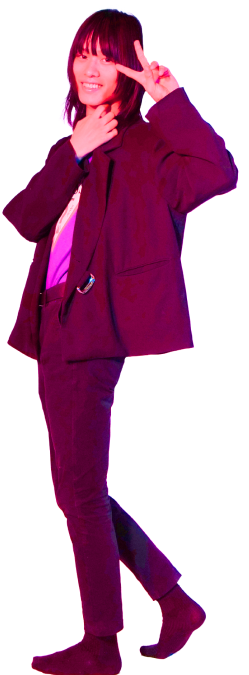
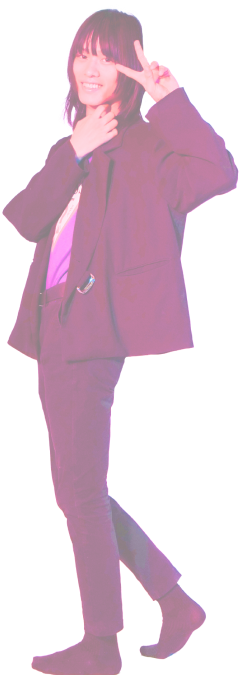
アニメーション以外仮完成

diff --git a/css/style.css b/css/style.css
@@ -41,8 +41,8 @@ body {
 }
 
 .top-image {
-  width: 95%;
-  height: 95%;
+  width: 80%;
+  height: 80%;
 }
 
 .start-button {
@@ -122,7 +122,7 @@ body {
 .foundation {
   position: relative;
   width: 340px;
-  height: 90vh;
+  height: 80vh;
   display: flex;
   justify-content: center;
 }
@@ -130,14 +130,14 @@ body {
 .foundation-back {
   position: absolute;
   width: 340px;
-  height: 90vh;
+  height: 80vh;
   z-index: 1;
 }
 
 .foundation-back-1 {
   position: absolute;
   width: 340px;
-  height: 90vh;
+  height: 80vh;
   background-color: #999999;
   filter: blur(2px);
   border-radius: 15px;
@@ -146,7 +146,7 @@ body {
 .foundation-back-2 {
   position: absolute;
   width: 340px;
-  height: 90vh;
+  height: 80vh;
   /* background-color: #999999; */
   border: 3px solid #e2e3df;
   filter: blur(2px);
@@ -156,7 +156,7 @@ body {
 .foundation-back-3 {
   position: absolute;
   width: 340px;
-  height: 90vh;
+  height: 80vh;
   /* background-color: #999999; */
   border: 3px solid #ffffff;
   border-radius: 15px;
@@ -397,7 +397,7 @@ body {
 .last {
   position: relative;
   width: 340px;
-  height: 90vh;
+  height: 80vh;
   display: flex;
   justify-content: space-between;
   flex-direction: column;
@@ -421,26 +421,30 @@ body {
 .imgin-1 {
   position: relative;
   height: 72%;
-  width: 95%;
+  width: 85%;
   background-image: url(../images/chart-img/exterior_leader.png);
   background-size: contain;
   background-position: center;
   background-repeat: no-repeat;
+  /* filter: brightness(40%); */
+  /* opacity: 0.4; */
   z-index: 5;
   display: flex;
   flex-direction: column;
   align-items: center;
   justify-content: flex-end;
+  gap: 5%;
 }
 .imgin-2 {
   position: relative;
-  width: 100%;
+  width:90%;
   /*  */
   background-size: contain;
   background-repeat: no-repeat;
   /* bottom: 10%; */
   /* mix-blend-mode: screen; */
   z-index: 6;
+  filter:brightness(100%)
   /* filter: brightness(120%) saturate(150%); */
 }
 .last-background {
@@ -465,15 +469,17 @@ body {
   font-size: var(--text_size_ex_large);
   color: #ffffff;
   text-shadow: 0px 0px 2px #ffffff;
+  text-align: center;
 }
 
 .last-button {
   position: relative;
   z-index: 7;
-  width: 260px;
+  width: 80%;
   display: flex;
   justify-content: space-between;
   align-items: center;
+  padding-top: 8%;
 }
 
 .retry-button {

diff --git a/js/chart.js b/js/chart.js
@@ -48,7 +48,7 @@ function changeQ(num, ques) {
               "background-image",
               "url(./images/chart-img/stage_leader.png)"
             );
-            $("#logo-img").attr("src", "./images/logo/night_logo.png");
+            $("#logo-img").attr("src", "./images/logo/day_logo.png");
             $(".busyo_name").html("Stage");
             break;
           case "PA":
@@ -56,7 +56,7 @@ function changeQ(num, ques) {
               "background-image",
               "url(./images/chart-img/PA_leader.png)"
             );
-            $("#logo-img").attr("src", "./images/logo/night_logo.png");
+            $("#logo-img").attr("src", "./images/logo/pa_logo.png");
             $(".busyo_name").html("Stage");
             break;
           case "Web":
@@ -145,7 +145,7 @@ function changeQ(num, ques) {
               "url(./images/chart-img/athlethic_leader.png)"
             );
             $("#logo-img").attr("src", "./images/logo/ath_logo.png");
-            $(".busyo_name").html("Athleticfestival");
+            $(".busyo_name").html("Athletic\nfestival");
             break;
         }
         $(".question-background").fadeOut(100);
@@ -282,7 +282,7 @@ $(document).on("click", ".nobutton", function () {
 });
 
 $(document).on("click", "#retry-button", function () {
-  // location.reload();
+  location.reload();
 });
 
 $(document).on("click", "#share", function () {
